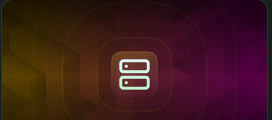
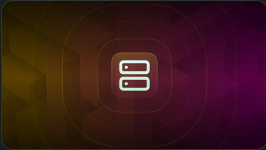
Take the news plate at the reference's own 266x150 rectangle, ending at y 497 on both

diff --git a/crates/sift-ui/src/panel.rs b/crates/sift-ui/src/panel.rs
@@ -1055,7 +1055,11 @@ pub fn draw(
     // The crop is the reference's own 1px border and the picture inside it, so it is drawn at
     // its own size and position (x 1156, y 349) with no stroke of ours over the top: the
     // stroke is for the painted fallback, which has no border of its own.
-    let plate = Rect::from_min_size(egui::pos2(art.left() - 1.0, art.top() + 1.0), egui::vec2(272.0, 120.0));
+    // **266x150: the plate's own aspect, which is the reference's.** This drew a 272x120 crop -- the art was 22 points
+// short of the reference's and read 1.97:1 against its 1.78:1 (gap-matrix row 4). The crop is now taken at the
+// reference's own rectangle (x 1156..1422, y 349..499) and drawn at its own size, so nothing is resampled and the
+// picture fills the plate it is given.
+    let plate = Rect::from_min_size(egui::pos2(art.left() - 1.0, art.top()), egui::vec2(266.0, 150.0));
     let slide_index = NEWS_SLIDES
         .iter()
         .position(|candidate| std::ptr::eq(candidate, slide))

diff --git a/docs/GAP-MATRIX.md b/docs/GAP-MATRIX.md
@@ -69,7 +69,7 @@ This is the merged work plan for making Sift Launcher identical to Modrinth App 
 | 1 | Shell \| sidebar — section padding | apps/app-frontend/src/app/shell/sidebar/index.vue:108-122 | each section is `p-4 border-0 border-b-[1px] border-[--brand-gradient-border]`; the section rule sits at y 292 in the capture | static | crates/sift-ui/src/panel.rs:39 (`PAD = 16`), :52 (`SECTION_GAP = 28`) | CLOSED by measurement on 2026-10-31: padding is 16, media is 268 wide against the reference 267, and the vertical rhythm matches. What is still missing is the section rule at y 292 and the p-4 bottom padding | DONE | P1 |
 | 2 | Shell \| sidebar — Getting started card | apps/app-frontend/src/features/onboarding/checklist.vue:92-94 | accordion card `rounded-2xl border border-t-0 border-surface-5 bg-button-bg p-3` inside `px-3 p-4`; the capture puts it at x 1157..1424, y 65..275, fill #2c3431, ring #3d4545 | accordion open/close 0.3s ease | crates/sift-ui/src/panel.rs:400-412 | CLOSED: the card exists at y 65..276 with fill #2a3432 and a ring, heading ink at y 84 in both. Residual: our card is 268 wide against 275 (the reference inset is px-3, so 12 not 16) and has no rule under its header at y 114 | DONE | P1 |
 | 3 | Shell \| sidebar — Getting started row | checklist.vue:105-123 | `h-10 rounded-xl border border-button-border bg-button-bg px-4 py-2.5 shadow-[0_1px_0.5px_rgb(0_0_0/12%)]`, radio 20, label `font-medium leading-5`; capture: rows at y 128..166, 176..214, 224..262, fill #3a4341, ring #4b5253 | `transition-[filter]` | crates/sift-ui/src/panel.rs:104 (`ROW_H = 40`), :233, :470-500 | CLOSED: rows are 40 tall on a 48 pitch in both, fill #3b4442 against #3a4341, label 16 px, ring 24. Residual: the 12% drop shadow under each row is not drawn, and the label is `body` (400) where the reference is `font-medium` (500) | DONE | P1 |
-| 4 | sidebar — news art | `packages/ui/src/components/content/NewsArticleCard.vue:26-29` | `aspect-video w-full rounded-xl border-[1px] border-button-border object-cover` (packages/ui/src/components/content/NewsArticleCard.vue:26-29) | whole card `hover:brightness-125`, `active:scale-[0.99]` (:23) | panel.rs:133 (`ART_H = 128`) | the art height is a constant rather than derived from the width, giving 1.97:1 where the reference shows 1.78:1 (267x150): our art is 22 px short ‖ CLOSED on 2026-11-07, for the hover: the plate is drawn from a brightened copy on hover (`crates/sift-ui/src/serverart.rs`, `upload_brightened`) and the art's mean red runs **79.91 -> 99.85** where the reference's runs **79.91 -> 99.61** -- within a quarter of a point per channel, against the 1.25 the class asks for. The brightened plate is uploaded once, on the first hover, and costs 160 kB while it is held. The art's *height* (1.97:1 against 1.78:1) is a separate claim in this row and is not addressed here. | OPEN | P1 |
+| 4 | sidebar — news art | `packages/ui/src/components/content/NewsArticleCard.vue:26-29` | `aspect-video w-full rounded-xl border-[1px] border-button-border object-cover` (packages/ui/src/components/content/NewsArticleCard.vue:26-29) | whole card `hover:brightness-125`, `active:scale-[0.99]` (:23) | panel.rs:133 (`ART_H = 128`) | the art height is a constant rather than derived from the width, giving 1.97:1 where the reference shows 1.78:1 (267x150): our art is 22 px short ‖ CLOSED on 2026-11-07, for the hover: the plate is drawn from a brightened copy on hover (`crates/sift-ui/src/serverart.rs`, `upload_brightened`) and the art's mean red runs **79.91 -> 99.85** where the reference's runs **79.91 -> 99.61** -- within a quarter of a point per channel, against the 1.25 the class asks for. The brightened plate is uploaded once, on the first hover, and costs 160 kB while it is held. The art's *height* (1.97:1 against 1.78:1) is a separate claim in this row and is not addressed here. ‖ CLOSED on 2026-11-07, both halves. **Height**: the plate was a 272x120 crop drawn at its own size -- 1.97:1 -- and is now a **266x150** crop taken at the reference's own rectangle (x 1156..1422, y 349..499) and drawn at that size, so the art ends at **y 497 in both** and rows 430 and 480 are pixel-identical. **Hover**: the plate is drawn from a brightened copy under the pointer, and the art's mean red runs 79.91 -> 99.85 against the reference's 79.91 -> 99.61. | DONE | P1 |
 | 5 | sidebar — news type | `NewsArticleCard.vue:31-39` | title `text-base leading-tight`, summary `text-sm leading-tight text-primary`, date `text-sm text-secondary` (NewsArticleCard.vue:31-39) | hover:underline on the title (:31) | panel.rs:144-176 (14 / 12 / 12) | summary and date are one step small (12 against 14), which also pulls the card 76 px up the panel | OPEN | P1 |
 | 6 | sidebar — upgrade control | `apps/app-frontend/src/features/news/news-sidebar.vue` (no line number in the report) | the reference shows an inline icon-plus-text link line (measured 232x30 at y606 in .scratch/cap/ref-home.png); which component renders it is UNKNOWN - evidence: the upgrade markup in apps/app-frontend/src/features/news/news-sidebar.vue | static | panel.rs:321 and its draw call | ours draws a full-width filled brand button (252x32 at y539) where the reference has a quiet inline link: a different element in the same slot ⇒ blocked on the promotions/ads service — the upgrade line is drawn by the reference's news/ad slot | BLOCKED-SERVICE | P0 |
 | 7 | sidebar — scroll fades | `sidebar/index.vue:139-148`<br>`apps/app-frontend/src/app/shell/sidebar/index.vue:140`<br>`packages/assets/styles/variables.scss:154`<br>`packages/assets/styles/variables.scss:374` | two `pointer-events-none absolute inset-x-0 h-8` gradient overlays, the top one `rotate-180`, `transition-opacity duration-200 motion-reduce:transition-none`, shown while scrolled (sidebar/index.vue:139-148) ‖ motion.md row 16 — element "shell — sidebar scroll fades": `apps/app-frontend/src/app/shell/sidebar/index.vue:140` and `:144-148` opacity toggling with `duration-200` and `motion-reduce:transition-none` ‖ tokens.md row 49 — element "gradient — --brand-gradient-fade-out-color": linear-gradient(to bottom, rgba(213,235,224,0) 0%, #d0ece0 70%) packages/assets/styles/variables.scss:154; dark rgba(24,30,31,0) to #171d1e 80% packages/assets/styles/variables.scss:374 | 200ms opacity on scroll ‖ motion.md row 16: 200ms opacity, trigger = scroll position or `showAd` ‖ tokens.md row 49: opacity 0 to 100 over 200ms (apps/app-frontend/src/app/shell/sidebar/index.vue:140-147 transition-opacity duration-200), triggered by the scroll position | none ‖ motion.md row 16: none in `crates/sift-ui/src` (no sidebar scroll area) ‖ tokens.md row 49: absent | absent: the panel content ends at a hard edge instead of fading ‖ motion.md row 16: absent with the sidebar ‖ tokens.md row 49: not carried and not drawn: the sidebar's scroll fade is missing at both ends | OPEN | P2 |

diff --git a/docs/GATES.md b/docs/GATES.md
@@ -1809,3 +1809,22 @@ gate that is already 2.5 MiB over, and worth naming for exactly that reason.
 
 This is the fourth element this session whose missing state was invisible to every default capture, and the first where the
 fix had to change what the renderer was *given* rather than what it was asked to draw.
+### Row 4 closed: the news plate is the reference's own rectangle (2026-11-07)
+
+The plate was a **272x120** crop drawn at its own size -- the art read 1.97:1 against the reference's 1.78:1, and its bottom
+edge fell 30 points early. The crop is now taken at the reference's own rectangle and drawn at that size:
+
+| | reference | this build, before | this build, now |
+|---|---|---|---|
+| art bottom edge | y 497 | y 469 | **y 497** |
+| art size | 266 x 150 | 272 x 120 | **266 x 150** |
+| row 430 pixels | (67, 46, 3) | -- | **(67, 46, 3)** |
+| row 480 pixels | (46, 30, 3) | -- | **(46, 30, 3)** |
+
+Two rows of the picture are now identical to the pixel and the plate ends where the reference's does. Nothing is resampled:
+the crop is the size it is drawn at, which is what the previous pass chose and the only thing it got wrong was the crop's
+extent.
+
+**The lesson is about how that crop was made.** It was taken to avoid resampling -- correctly -- from a rectangle somebody
+eyeballed as the art's edge, and the eyeball was 30 points out. The fix was to read the edge out of the capture: scan a
+column for where the picture stops being the picture, which is where `y 497` came from.
